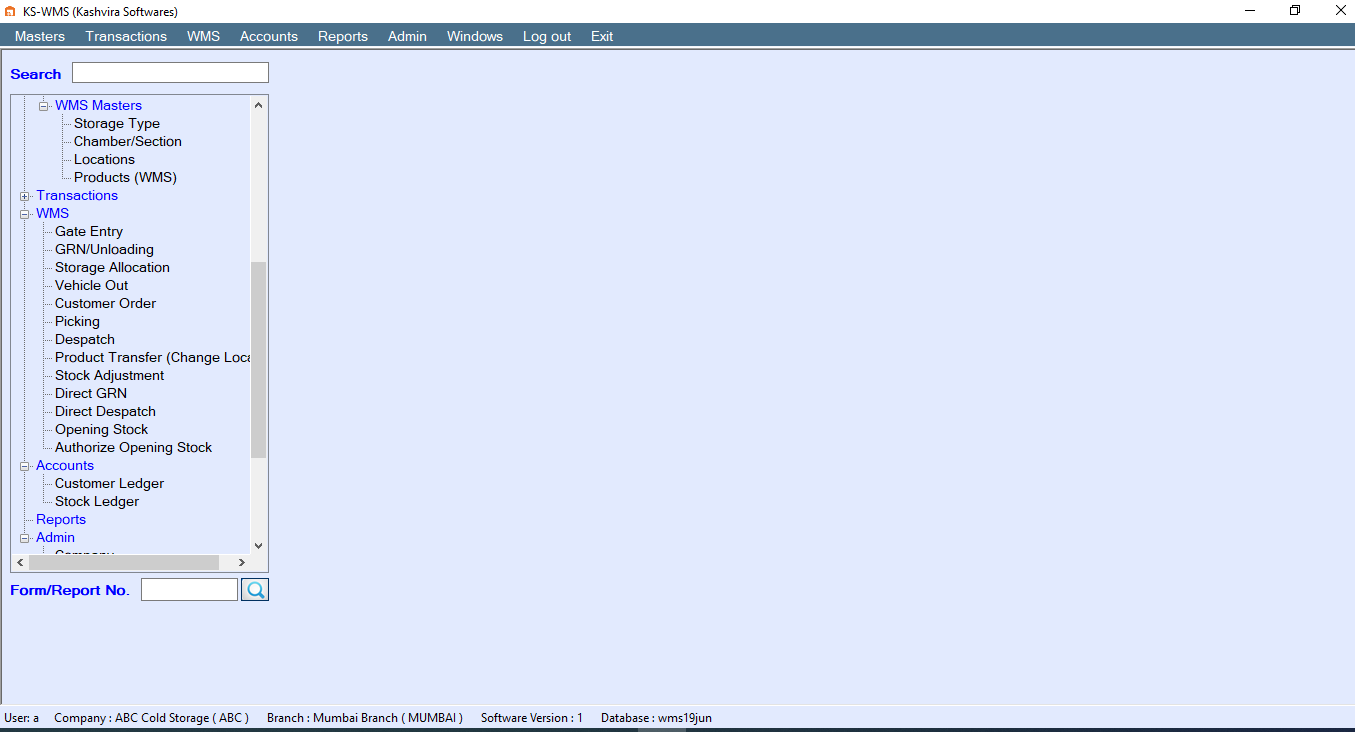
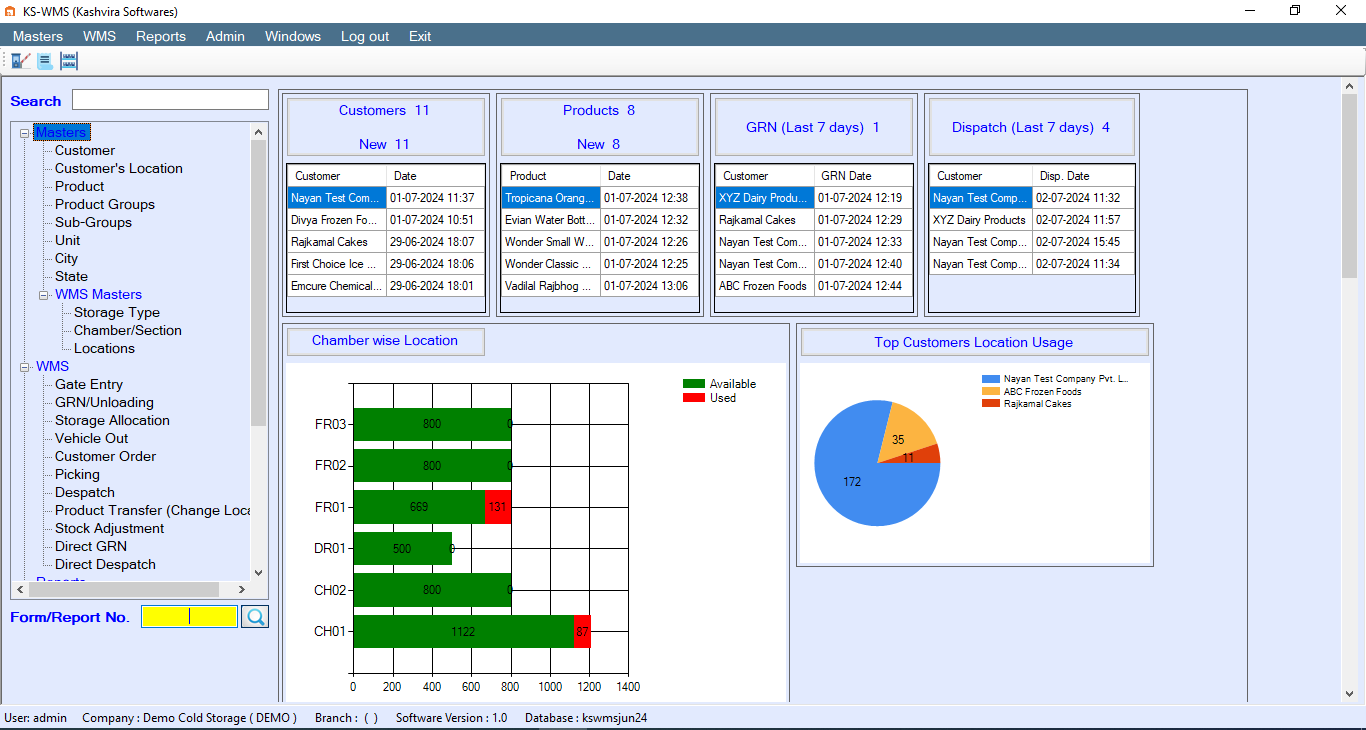
-

diff --git a/README.md b/README.md
@@ -48,7 +48,7 @@ Login
 
 ![alt text](https://github.com/kashvira-softwares/WMS/blob/main/screenshots/login.PNG?raw=true)
 
-Menus
+Menus and Home Screen
 
 ![alt text](https://github.com/kashvira-softwares/WMS/blob/main/screenshots/menus.PNG?raw=true)
 
